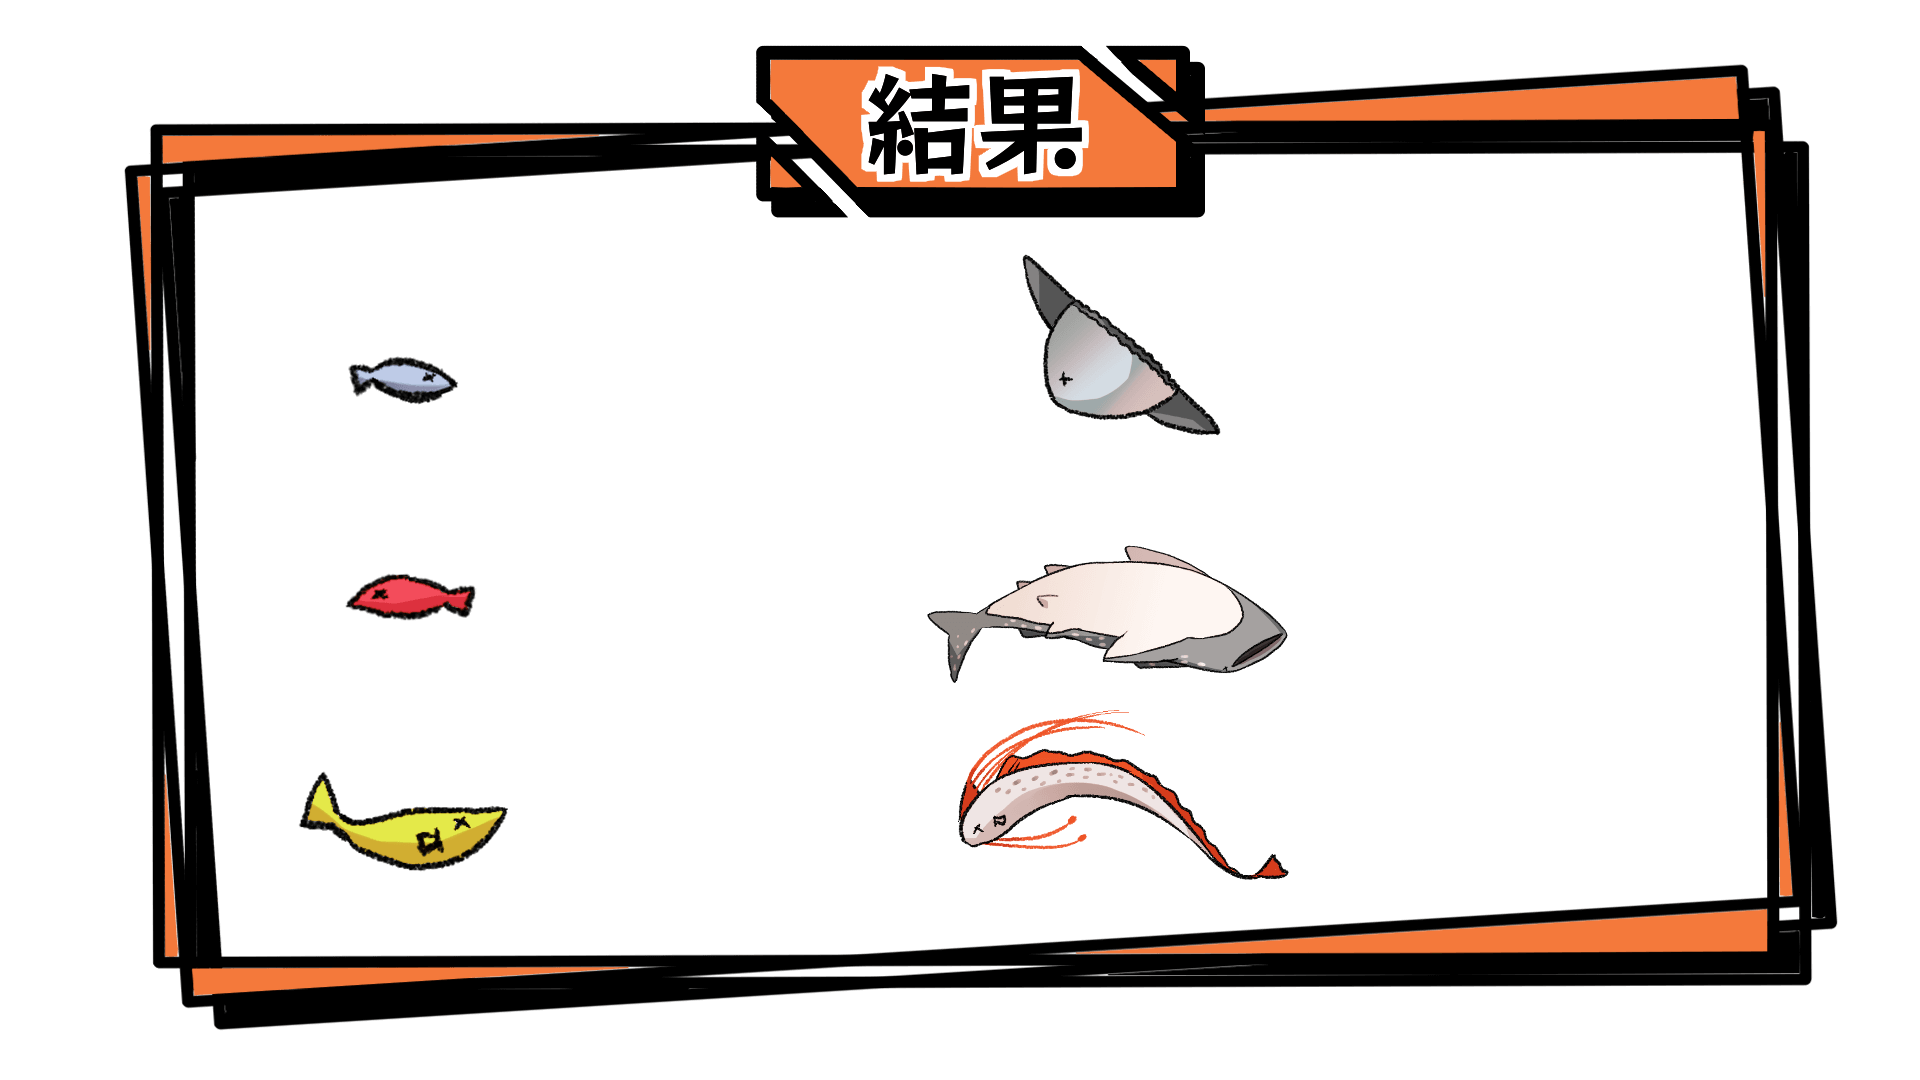
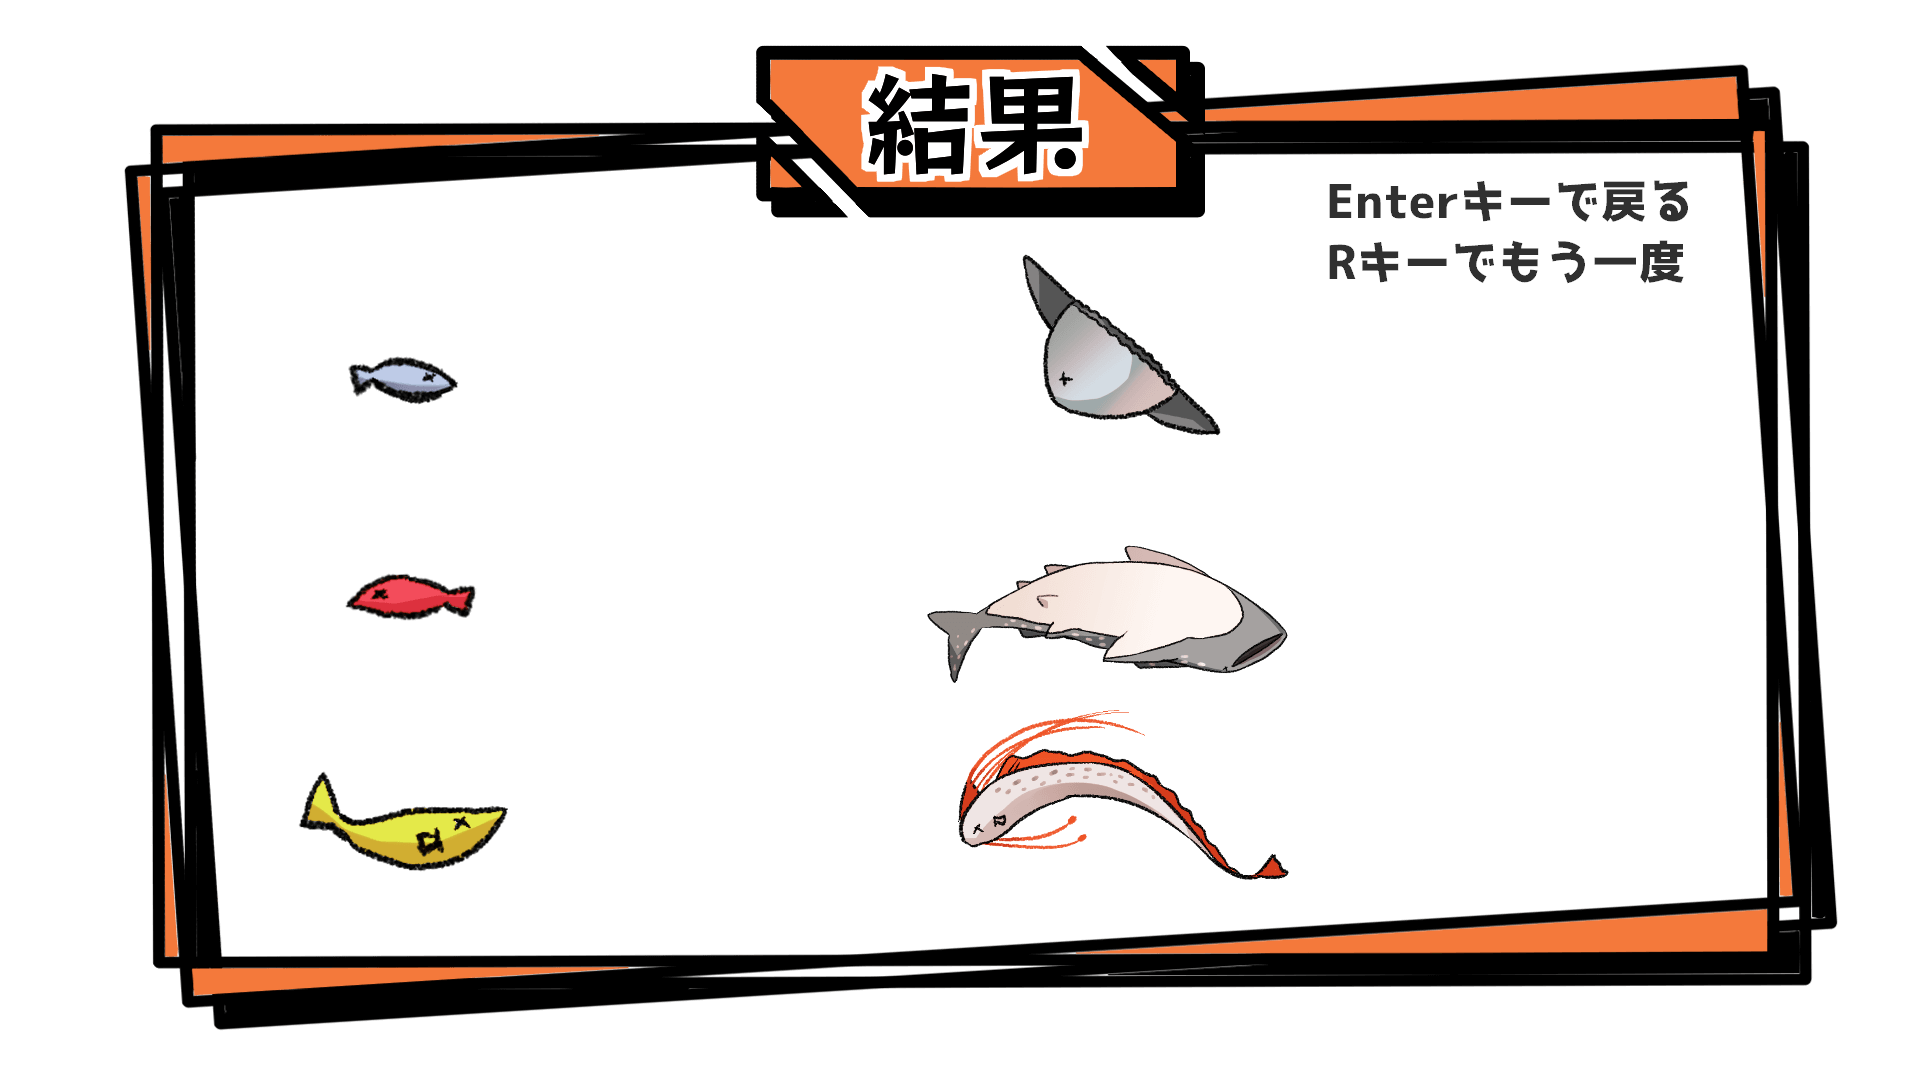
魚釣りの修正

Changed region(s): [[0.6875, 0.1528, 0.875, 0.275]]

diff --git a/GenkaiSyuraku/Fish.hpp b/GenkaiSyuraku/Fish.hpp
@@ -104,7 +104,7 @@ public:
 
 	Fish() {
 
-		font_timer = CreateFontToHandle(NULL, 100, 9, DX_FONTTYPE_EDGE);
+		font_timer = CreateFontToHandle(NULL, 100, 0, DX_FONTTYPE_NORMAL);
 
 		// 画像格納
 		for (std::size_t i{}; i < 4; ++i) {
@@ -152,6 +152,7 @@ public:
 		std::mt19937 engine(seed_gen());
 
 		++cloud_move_time;
+		if (fish_scene != fish_scene_end)
 		if (cloud_move_time >= cloud_move_time_max) {
 			++cloud_x;
 			cloud_move_time = 0;
@@ -315,6 +316,33 @@ public:
 		}
 		else if (timer <= -1) {
 			scene_id = 2; // マップ
+			timer = 60 * 15;
+			fished_count = (std::uint_fast32_t)fish_get.size();
+			++go_fish_count;
+
+			for (std::size_t i{}; i < fish_num; ++i) {
+				fish_count[i] = 0;
+			}
+
+			item_count[item_fish_small] = fish_count[fish_small];
+			item_count[item_fish_medium] = fish_count[fish_medium];
+			item_count[item_fish_large] = fish_count[fish_large];
+			item_count[item_fish_sunfish] = fish_count[fish_sunfish];
+			item_count[item_fish_whale_shark] = fish_count[fish_whale_shark];
+			item_count[item_fish_regalecus_glesne] = fish_count[fish_regalecus_glesne];
+
+			cloud_move_time = 0;
+			cloud_x = 0;
+			fisher_timer = 0;
+			fish_scene_start_timer = 100 * 4;
+			fish_scene = fish_scene_start;
+			total_score = 0;
+			uki_frame = 0;
+			fish_get.resize(0);
+			fish_swim.resize(0);
+		}
+
+		if (up_key[KEY_INPUT_R]) {
 			timer = 60 * 15;
 			fished_count = (std::uint_fast32_t)fish_get.size();
 			++go_fish_count;
